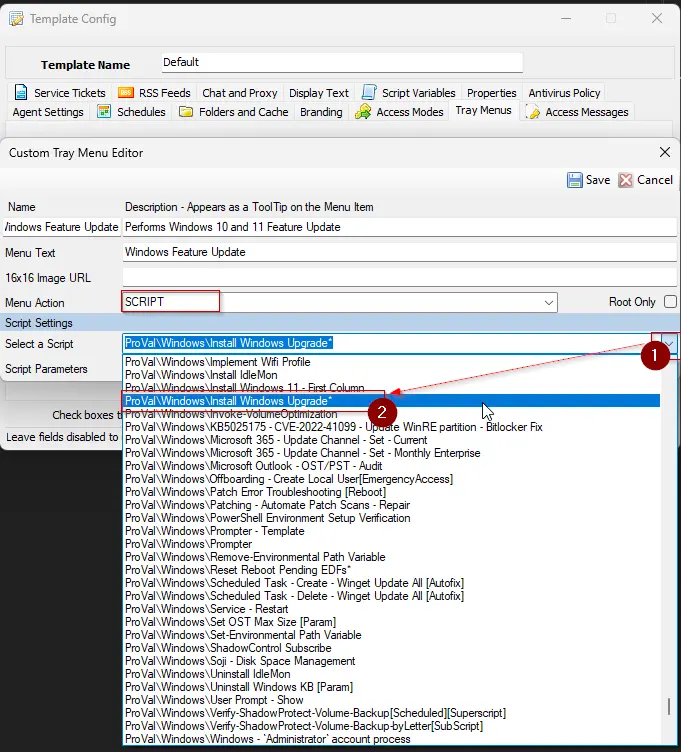
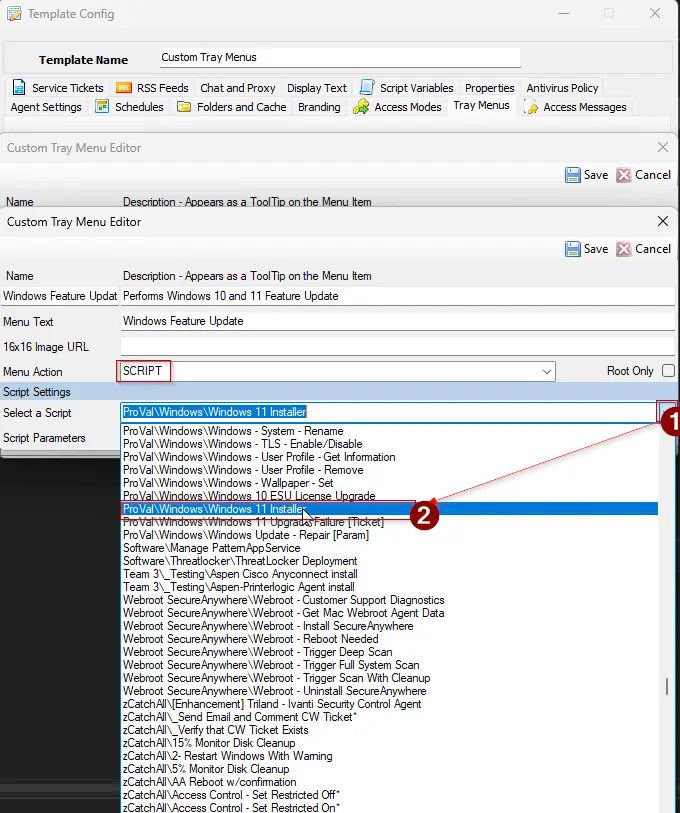
Bug Filxes
- Additional document updates for removed documents

diff --git a/docs/solutions/patch-complete-solution.md b/docs/solutions/patch-complete-solution.md
@@ -11,6 +11,7 @@ unlisted: false
 ---
 
 ## Purpose
+
 This solution is targeted to compute all the patch management automation together for better understanding.
 
 ## Associated Content
@@ -46,25 +47,17 @@ This solution is targeted to compute all the patch management automation togethe
 |--------------------------|--------|-----------------------------------------------------------------------------------------------------------------------|
 | [Solution - Windows 11 Compatibility Audit](/docs/f0bb3ffc-60cb-484c-b7fa-27a386ac664c)  | Solution | The solution aims to determine the compatibility of Windows 10 machines for the Windows 11 installation. <br></br>Additionally, it can be used to detect Windows 11 computers that do not meet Microsoft's requirements for Windows 11. While Windows 11 can be forcefully installed on incompatible computers, the feature pack cannot be updated for such machines using the Windows Update Assistant. |
 
-
-### **Install Feature Update to Windows 10+ machines**
-
-| Content                  | Type   | Function                                                                                                               |
-|--------------------------|--------|-----------------------------------------------------------------------------------------------------------------------|
-| [Script - Install Windows Upgrade](/docs/4a0526ef-6e45-4053-9a64-27713b7f4d28)  | Script | This script installs the latest feature update on a Windows 10+ machine. The script can be executed from the [Monitor - ProVal - Production - Patching - Windows 10/11 Build Upgrades EOL Based](/docs/03e04bb6-5087-4e71-9d2f-a3596e9c291f) set or executed manually. <br></br> **Note:** The script can create a ticket for failures. If a ticket category is specified in the monitor set, the script will produce a ticket under that category by default. Otherwise, it will create a ticket under the default ticket category. |
-
-### **Upgrade Windows 10 to 11**
+### **Upgrade Windows 10 and 11 to Windows 11 24H2**
 
 | Content                  | Type   | Function                                                                                                               |
 |--------------------------|--------|-----------------------------------------------------------------------------------------------------------------------|
-| [Solution - Windows 11 Installation](/docs/00b08a60-f202-42db-9f67-a76ea29289fa)  | Solution | This solution is designed to automate the upgrade from Windows 10 to Windows 11, addressing the end-of-support deadline for Windows 10 in October 2025. |
+| [Solution - Windows 11 24H2 Installation](/docs/00b08a60-f202-42db-9f67-a76ea29289fa)  | Solution | This solution is designed to automate the upgrade from Windows 10 to Windows 11, and install feature update for Windows 11 addressing the end-of-support deadline for Windows 10 in October 2025. |
 
 ### **Workaround script for erroneous Windows machines**
 
 | Content                  | Type   | Function                                                                                                               |
 |--------------------------|--------|-----------------------------------------------------------------------------------------------------------------------|
 | [Script - Install Windows 11 Feature Update [Beta, Reboot]](/docs/27f8240b-603a-4af2-b9d9-480a560f8747)  | Script | This document describes the Automate implementation of the agnostic script [Install-WindowsFeatureUpdate](/docs/837e00a9-4fde-4457-9516-591da7ba4da0). The script automates the installation of the latest Windows 11 Feature Update. It performs comprehensive pre-checks, maintenance, and validation to ensure a smooth upgrade process. The script supports both Windows 10 and Windows 11. For Windows 10, it attempts to upgrade to the latest available version of Windows 11. For Windows 11, it ensures the system is updated to the latest available feature update. |
-
 
 ## Implementation
 
@@ -74,12 +67,13 @@ Please refer to the each script/solution provided based on the title mentioned a
 ## FAQ
 
 - (Q) Does the above solutions dependent to each other?
-- (A) Not really, they are separate solution and build with different perspective. No doubt, these all relates to patching so can be run together as a customized solution based on the requirement. 
+- (A) Not really, they are separate solution and build with different perspective. No doubt, these all relates to patching so can be run together as a customized solution based on the requirement.
+
 ## Flow Chart
+
 Below are the few flow chart that can assist you to follow steps for patch install, Windows feature update, and Windows Upgrade from 10 to 11.
 
-
-- **Patch install Hierarchy**   
+- **Patch install Hierarchy**  
 Follow this hierarchy if a patch is not getting install. You can run the [Script - Universal KB Installer](/docs/424dfd5c-377f-461f-a57f-80001d839af8) to install that patch and if the issue persists, follow the flow chart below:
 
 ![Patch install hierarchy](../../static/img/docs/patch-complete-solution/image.png)

diff --git a/docs/cwa/howto/agent-template-self-help-menu-windows-feature-update.md b/docs/cwa/howto/agent-template-self-help-menu-windows-feature-update.md
@@ -1,8 +1,8 @@
 ---
 id: '0c25060b-1272-449f-af97-64169e636e95'
 slug: /0c25060b-1272-449f-af97-64169e636e95
-title: 'CWM - Automate - Agent Template - Self Help Menu - Windows Feature Update'
-title_meta: 'CWM - Automate - Agent Template - Self Help Menu - Windows Feature Update'
+title: 'Agent Template - Self Help Menu - Windows Feature Update'
+title_meta: 'Agent Template - Self Help Menu - Windows Feature Update'
 keywords: ['windows', 'feature', 'update', 'self', 'help', 'menu', 'script']
 description: 'This article outlines the step-by-step process to add the Windows Feature Update option in the Self Help menu, enabling the installation of the latest feature pack for Windows 10 and 11 through a script.'
 tags: ['software', 'update', 'windows']
@@ -15,15 +15,15 @@ unlisted: false
 This article outlines the process to add the `Windows Feature Update` option in the `Self Help` menu.  
 ![Image](../../../static/img/docs/0c25060b-1272-449f-af97-64169e636e95/image_1.webp)  
 
-The `Windows Feature Update` option runs the `Install Windows Upgrade` [script](/docs/4a0526ef-6e45-4053-9a64-27713b7f4d28) to install the latest available feature pack for the computer.
+The `Windows Feature Update` option runs the `Windows 11 Installer` [script](/docs/a4668ce4-9788-47a9-bb3b-1997367803ad) to install Windows 11 24H2 on the computer.
 
 ## Dependencies
 
-[EPM - Windows Configuration - Script - Install Windows Upgrade](/docs/4a0526ef-6e45-4053-9a64-27713b7f4d28)  
+[Windows 11 Installer](/docs/a4668ce4-9788-47a9-bb3b-1997367803ad)  
 
 ## Implementation
 
-1. Update/Import the [Install Windows Upgrade](/docs/4a0526ef-6e45-4053-9a64-27713b7f4d28) using the `Prosync` Plugin.
+1. Update/Import the [Windows 11 Installer](/docs/a4668ce4-9788-47a9-bb3b-1997367803ad) using the `Prosync` Plugin.
 
 2. Reload System Cache:  
    ![Image](../../../static/img/docs/0c25060b-1272-449f-af97-64169e636e95/image_2.webp)  
@@ -46,7 +46,7 @@ The `Windows Feature Update` option runs the `Install Windows Upgrade` [script](
    - **Menu Action**: Script  
    ![Image](../../../static/img/docs/0c25060b-1272-449f-af97-64169e636e95/image_7.webp)  
 
-8. Select the `ProVal/Windows/Install Windows Upgrade*` script from the `Select a Script` dropdown menu.  
+8. Select the `ProVal/Windows/Windows 11 Installer*` script from the `Select a Script` dropdown menu.  
    ![Image](../../../static/img/docs/0c25060b-1272-449f-af97-64169e636e95/image_8.webp)  
 
 9. Click the `Save` button to save the changes made to the `Custom Tray Menu Editor`:  

diff --git a/docs/cwa/monitors/install-windows-11-compatible-machines.md b/docs/cwa/monitors/install-windows-11-compatible-machines.md
@@ -21,7 +21,7 @@ To control the rollout pace, the monitor selects a randomized, limited batch of 
 - [Solution: Windows 10 ESU Licensing and Auditing](/docs/7fe6a52b-79fd-487b-8009-523996e74d11)
 - [Solution: Windows 11 Compatibility Audit](/docs/f0bb3ffc-60cb-484c-b7fa-27a386ac664c)  
 - [Script: Windows 11 installer](/docs/a4668ce4-9788-47a9-bb3b-1997367803ad)  
-- [Solution : Windows 11 Installation](/docs/00b08a60-f202-42db-9f67-a76ea29289fa)  
+- [Solution : Windows 11 24H2 Installation](/docs/00b08a60-f202-42db-9f67-a76ea29289fa)  
 - Alert Template: △ Custom - Install Windows 11 - Compatible Machines
 
 ## Target
